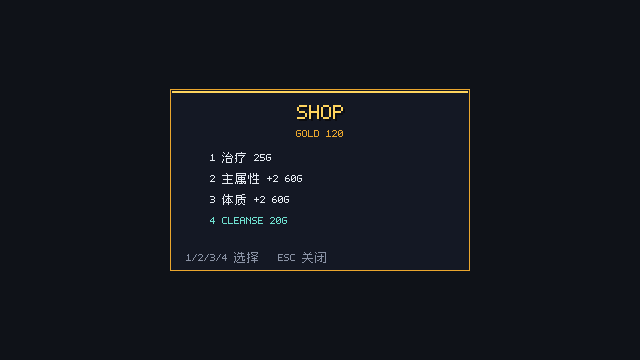
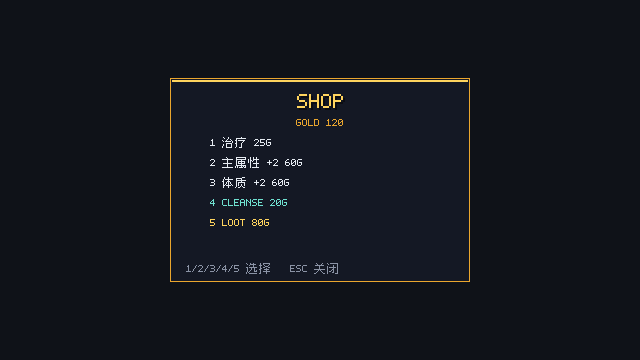
feat: shop blind loot purchase

Changed region(s): [[0.25, 0.2139, 0.75, 0.3972], [0.3438, 0.3667, 0.4688, 0.6417], [0.2812, 0.7028, 0.5312, 0.7639]]

diff --git a/docs/QA_RUN2.md b/docs/QA_RUN2.md
@@ -181,7 +181,7 @@ zig build test-qa --summary all
 | 平均到达层 | 2.99 | 3.00 | 3.00 | 3.00 |
 | 超时 | 0 | 0 | 0 | 0 |
 
-- zig build test：181/181；zig build test-qa：102/102；test-qa3：178/178。
+- zig build test：182/182；zig build test-qa：102/102；test-qa3：179/179。
 - 0 不变量违规；死亡集中在 F3（95），F2 18。
 - 第 9 节的 64.3% 保留为 13×13 历史基线。
 - auto 仍是巡检 bot，在 31×31 Boss 层可能停住；以 test-qa 批量结果为准。
